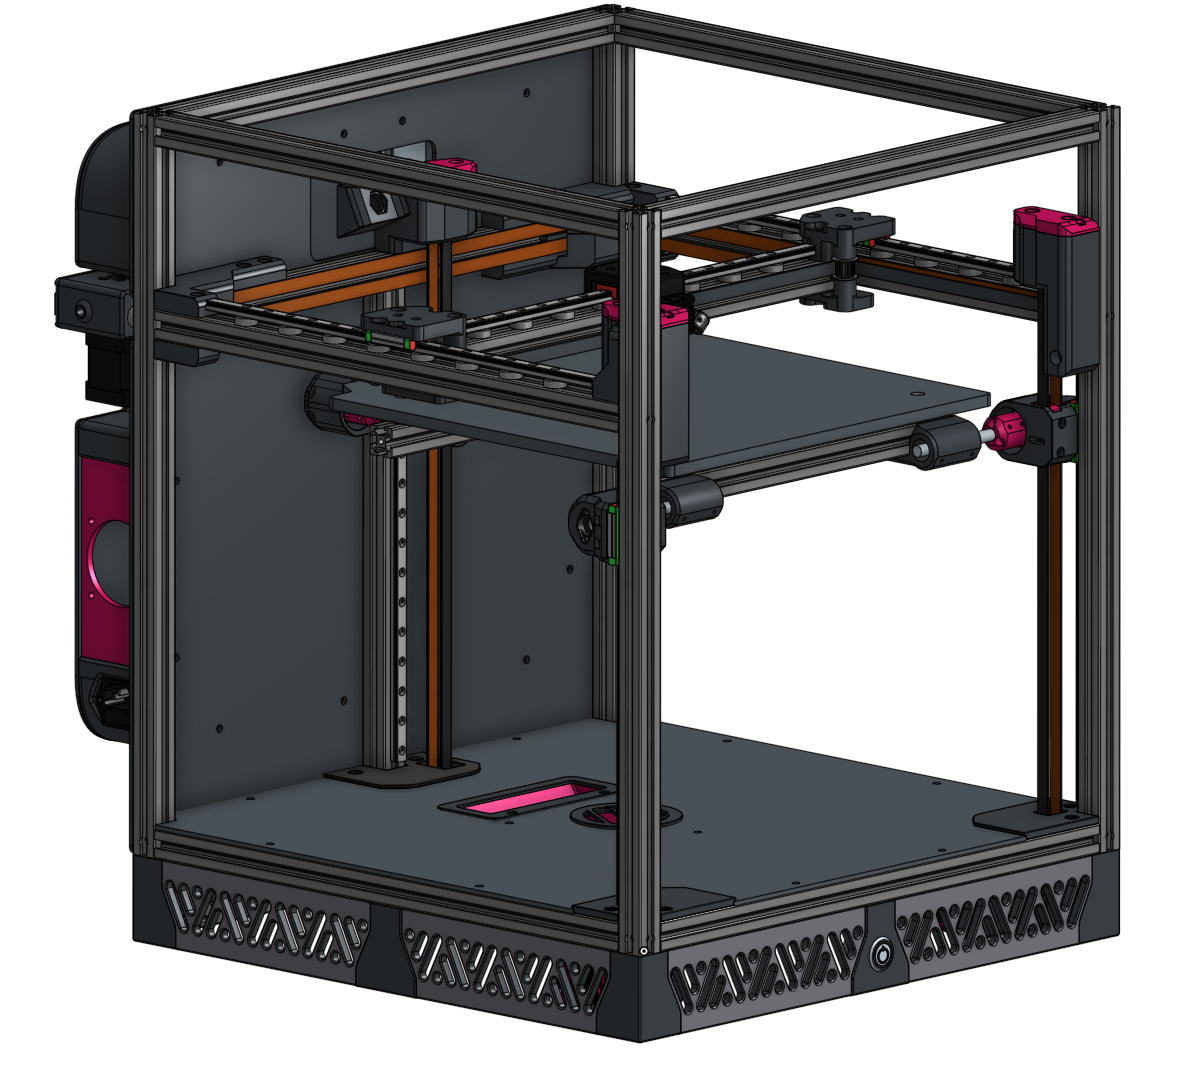
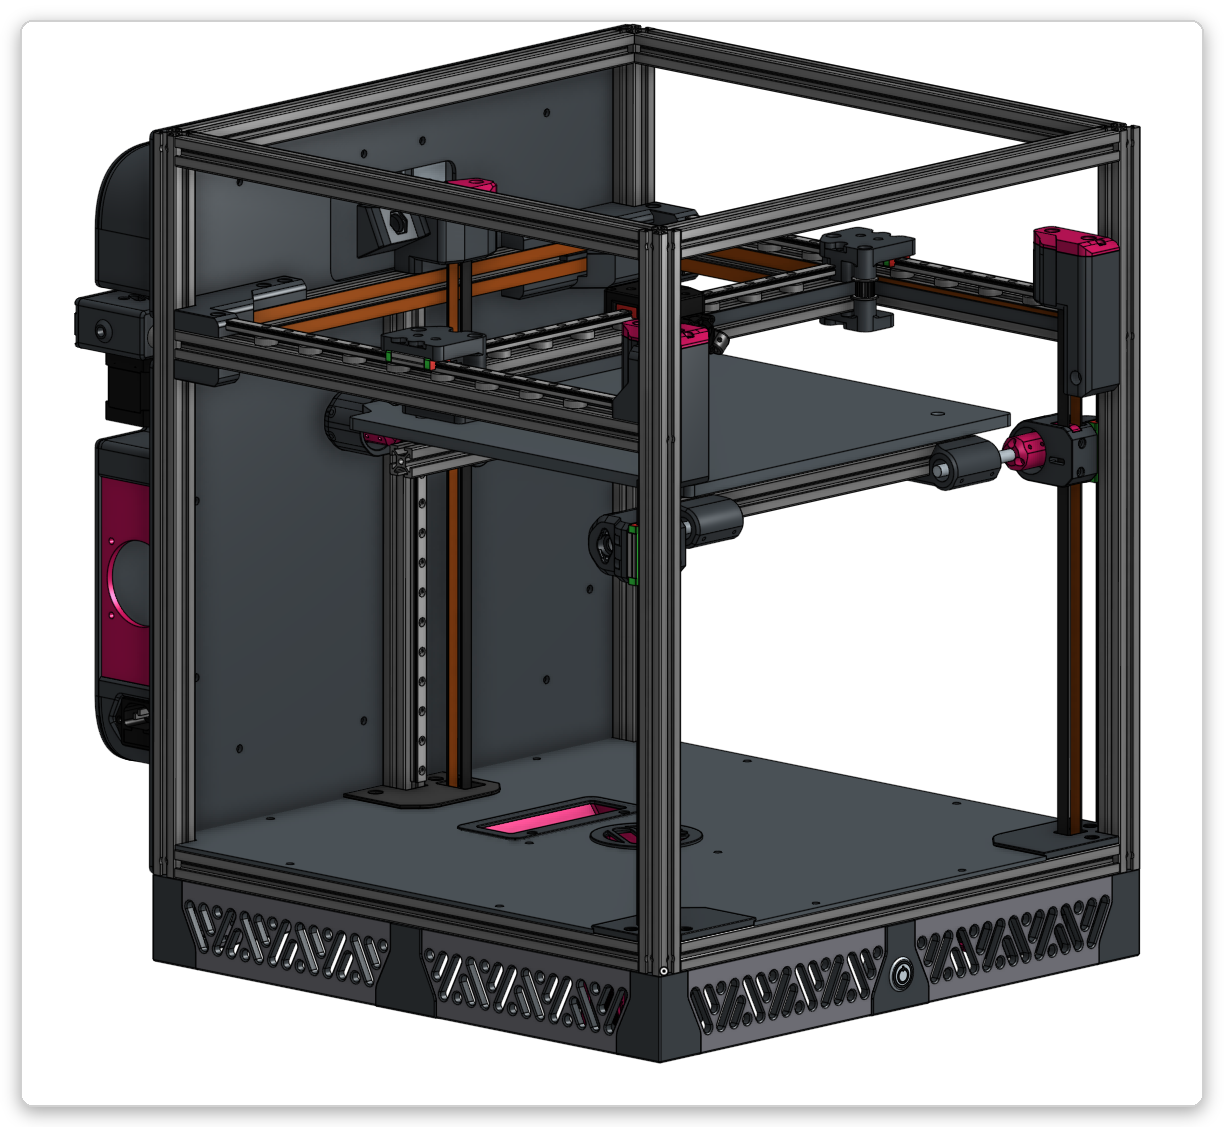
docs: unify MkDocs links, format showcase cards, and resolve typos

diff --git a/docs/index.md b/docs/index.md
@@ -7,7 +7,7 @@
 
 ## Current Projects 
 
-### [Core (3D Printer)](https://alchemical-3d.com/core/) 
+### [Core (3D Printer)](core.md) 
 
 - 3D printers are diverse and complex machines, with complex problems.  Our Core printer falls in the coreXY category of design.  This printer has been designed from the ground up to manage physical as well as thermal issues we encounter as hobbyists and print farmers.  The goal of this printer is to create a system that is not only easy to build, but affordable to build, while solving as many physical and thermal problems as possible.  We cannot say this will be the cheapest printer in your selection list, but we can say it surely will not be the most expensive.  Core will likely also be the most advanced printer you have on the list.  It is developed to include some of our own and others advanced systems, including Light-Sense, VOC filtration, thermal compensation, resonance compensation, filament width detection, and more.
 
@@ -15,16 +15,16 @@
 - (link coming soon)
 - One of the long standing problems the community and industry has faced is the time required to tune and manage printers production results.  Alchemical-3D identified this issue very early in our existence as we all have.   Light-Sense is meant to address the first steps toward the holy grail of printing, pushing a button and letting the printer tune itself.  Light-Sense is well into development and already partially functional while advancing further daily.   Light-Sense's first module Rubedo was on display at MRRF this year in Goshen Indiana, and will again be on display at ERRF this year in Maryland.  One of our developers, Mike has set the foundation to change everything in our space, see the video below.  The display of this hardware at MRRF prompted BTT to give Alchemical-3D the "Big Brain Energy Award" as well!
 
-![Award](/assets/images/Award.jpg)
+![Award](assets/images/Award.png)
 
 [![Watch the video](https://img.youtube.com/vi/c1hrP0gduRU/default.jpg)](https://youtu.be/c1hrP0gduRU)
 
 
-### [Retort (Filament Dryer & Storage)](https://alchemical-3d.com/retort/)
+### [Retort (Filament Dryer & Storage)](retort.md)
 
-- Second to the users day to day issues with or setting up filaments, is the age old issue of hygroscopic materials and fused depositition modeling (FDM).  The maker space we exist in has problems that must be solved.  As things are today the options are essentially overpriced dryer/storage solutions that in some cases are even fire hazards or dangerous to ones health (looking at you makers baking that ABS in your kitchen appliances) or otherwise require you to continue spending money on desiccant materials, and still do not do their job well or in a timely manor, and once they are done they provide little long term protection.  This is where Retort comes in and takes over as an affordable, scalable dryer and storage solution.
+- Second to the users day to day issues with or setting up filaments, is the age old issue of hygroscopic materials and fused deposition modeling (FDM).  The maker space we exist in has problems that must be solved.  As things are today the options are essentially overpriced dryer/storage solutions that in some cases are even fire hazards or dangerous to ones health (looking at you makers baking that ABS in your kitchen appliances) or otherwise require you to continue spending money on desiccant materials, and still do not do their job well or in a timely manner, and once they are done they provide little long term protection.  This is where Retort comes in and takes over as an affordable, scalable dryer and storage solution.
 
-### [Pestle (Hybrid Extruder)](https://alchemical-3d.com/pestle/) 
+### [Pestle (Hybrid Extruder)](pestle.md) 
 
 - There is an endless battle being waged in a war of words and pictures day to day in online venues.  The sides of this battle are Direct Drive and Bowden.   What if there was a middle-ground between the two, where you can keep most of the PA and retraction values from Direct Drive, but also not sacrifice the quality and indifference the Bowden system has to issue #6; all while substantially cutting tool-head mass?  This is where Pestle comes into play.  
 
@@ -36,20 +36,23 @@
 - [TWITTER](https://twitter.com/Alchemical3D)
 - [GITHUB](https://github.com/Alchemical-3D)
 - [PRINTABLES](https://www.printables.com/@Alchemical3D_390617)
-- [EMAIL](we@alchemical3d.net)
+- [EMAIL](mailto:we@alchemical3d.net)
 
 ## Sponsors:
 > Alchemical-3D is extremely appreciative to all of our sponsors and the people who have put time and money into the community.  Please take time to visit these sites and do business with them, you will not find better sources of quality hardware and support.  Many of these sponsors products can be found across other stores as well.
 
 ### USA
-- [KB-3D](https://kb-3d.com/store/)
+- [KB-3D](https://kb-3d.com/store/?affp=6182)
 - [FABREEKO](https://www.fabreeko.com/)
 
 ### EU
 - [3DO](https://3do.dk/)
 - [LINNEO](https://linneo.tech/)
 
-### Woldwide
+### Worldwide
 - [LDO Motors](http://ldomotors.com/)
+
+***
+*Documentation prepared with AI editorial assistance • Engineered & maintained by Alchemical-3D.*
 
 

diff --git a/docs/pestle.md b/docs/pestle.md
@@ -3,7 +3,7 @@
 > A flexible Bowden system designed to fit almost anywhere, while providing rotational movement to support even shorter bowden assemblies.
 > https://github.com/Alchemical-3D/Pestle_Rotational_Bowden
 
- ![PestleExploded3.png](/assets/images/img_pestle/PestleExploded3.png)
+ ![PestleExploded3.png](assets/images/img_pestle/PestleExploded3.png)
 
 ## Project Information
 
@@ -21,7 +21,7 @@ The goal of this project is to provide an ultra lightweight but powerful extrude
 
 - Lower retraction values and requirements than traditional Bowden solutions (better).
 
-- Reduced weight on the toolhead allowing higher acceleration/decelleration values in relative to system capabilities at any given time.
+- Reduced weight on the toolhead allowing higher acceleration/deceleration values in relative to system capabilities at any given time.
 
 - Shorter PTFE length and fewer bend radii, resulting in a cleaner less resistive feed system.
 
@@ -34,7 +34,7 @@ The goal of this project is to provide an ultra lightweight but powerful extrude
 
 - The system can be built in the makers own workspace.
 
-- Pestle uses a round NEMA14 (or similar) 36STH20-1004AHG.
+- Pestle uses a round NEMA 14 (or similar) 36STH20-1004AHG.
 
 - Pestle is built with a typical Bondtech BMG parts kit. 
 
@@ -57,3 +57,6 @@ The goal of this project is to provide an ultra lightweight but powerful extrude
 - The maker is responsible for your own safety and equipment when building and using this system, you accept all liability when using these files and printed items from both pre and current release candidates!
 
 - The concept for this extruder was inspired by the now defunct Voron Jetpack. However, we would like to extend a special thanks to the Voron team for their inspiration on this product. Please take a moment if you are not familiar with the Voron project to educate yourself on the hard work they commit to the makerspace. https://vorondesign.com/
+
+***
+*Documentation prepared with AI editorial assistance • Engineered & maintained by Alchemical-3D.*

diff --git a/docs/retort.md b/docs/retort.md
@@ -4,7 +4,7 @@
 
 > Retort is a modular and expandable filament dryer solution capable of growing to the makers needs at first build or over time.
 
- ![3dprofilefront.png](/assets/images/img_retort/3dprofilefront.png)
+ ![3dprofilefront.png](assets/images/img_retort/3dprofilefront.png)
 
 ## Project goals
 
@@ -15,7 +15,7 @@
 
 ## Features
 
-- Modularity starts at one roll of filament expanding to as many as the maker requires.  The the only limitations become power supply and address availability.  As the maker increases capacity, the linear cost of this system is also reduced from initial build cost.  
+- Modularity starts at one roll of filament expanding to as many as the maker requires.  The only limitations become power supply and address availability.  As the maker increases capacity, the linear cost of this system is also reduced from initial build cost.  
 
 - Retort fully interfaces with Klipper firmware allowing local and remote access to the hardware via the same familiar methods available today.  This enables the maker to control the unit from anywhere; just as though they were controlling their printer with the normal interface.  The single spool version of Retort draws power from its host printer and can be installed as a side panel, or a stand-alone object next to its host.  The larger multi-spool version of Retort; will be able to interface with a host printer, or have its own host unit installed for separate control.
 
@@ -46,3 +46,6 @@
 -  Klipper + Mainsail/Fluidd
 
 -  Pre-configured Alchemical-3D bundle customizable by end-user.
+
+***
+*Documentation prepared with AI editorial assistance • Engineered & maintained by Alchemical-3D.*

diff --git a/docs/core.md b/docs/core.md
@@ -2,7 +2,7 @@
 
 > Modular design, fully enclosed or open air CoreXYZ FDM 3D printer with direct drive and bowden extrusion system support, including the Alchemical-3D Pestle system for CoreXY.
 
- ![Alchemical Core Teaser](/assets/images/img_core/alchemical-3d_core.png)
+ ![Alchemical Core Teaser](assets/images/img_core/alchemical-3d_core.png)
 
 ## Project goals
 
@@ -28,7 +28,7 @@
 
 - Built in resonance tuning and compensation with accelerometers usage integrated into klipper and the physical printer design.
 
-- The 9mm belts minimize undesireable stretch and noise in the system resulting in superior printing quality.
+- The 9mm belts minimize undesirable stretch and noise in the system resulting in superior printing quality.
 
 - Belt driven Z-axis creates a higher resolution Z plain for the maker and enables faster Z-hop maneuvers.  Z-Hop can be critical to printed part quality in some cases.
 
@@ -78,3 +78,6 @@
 -  Klipper + Mainsail or Fluidd
 
 -  Pre-configured Alchemical-3D software and macros bundle.
+
+***
+*Documentation prepared with AI editorial assistance • Engineered & maintained by Alchemical-3D.*

diff --git a/README.md b/README.md
@@ -7,3 +7,6 @@ pip install -r requirements.txt
 mkdocs build
 mkdocs serve
 ```
+
+***
+*Documentation prepared with AI editorial assistance • Engineered & maintained by Alchemical-3D.*
